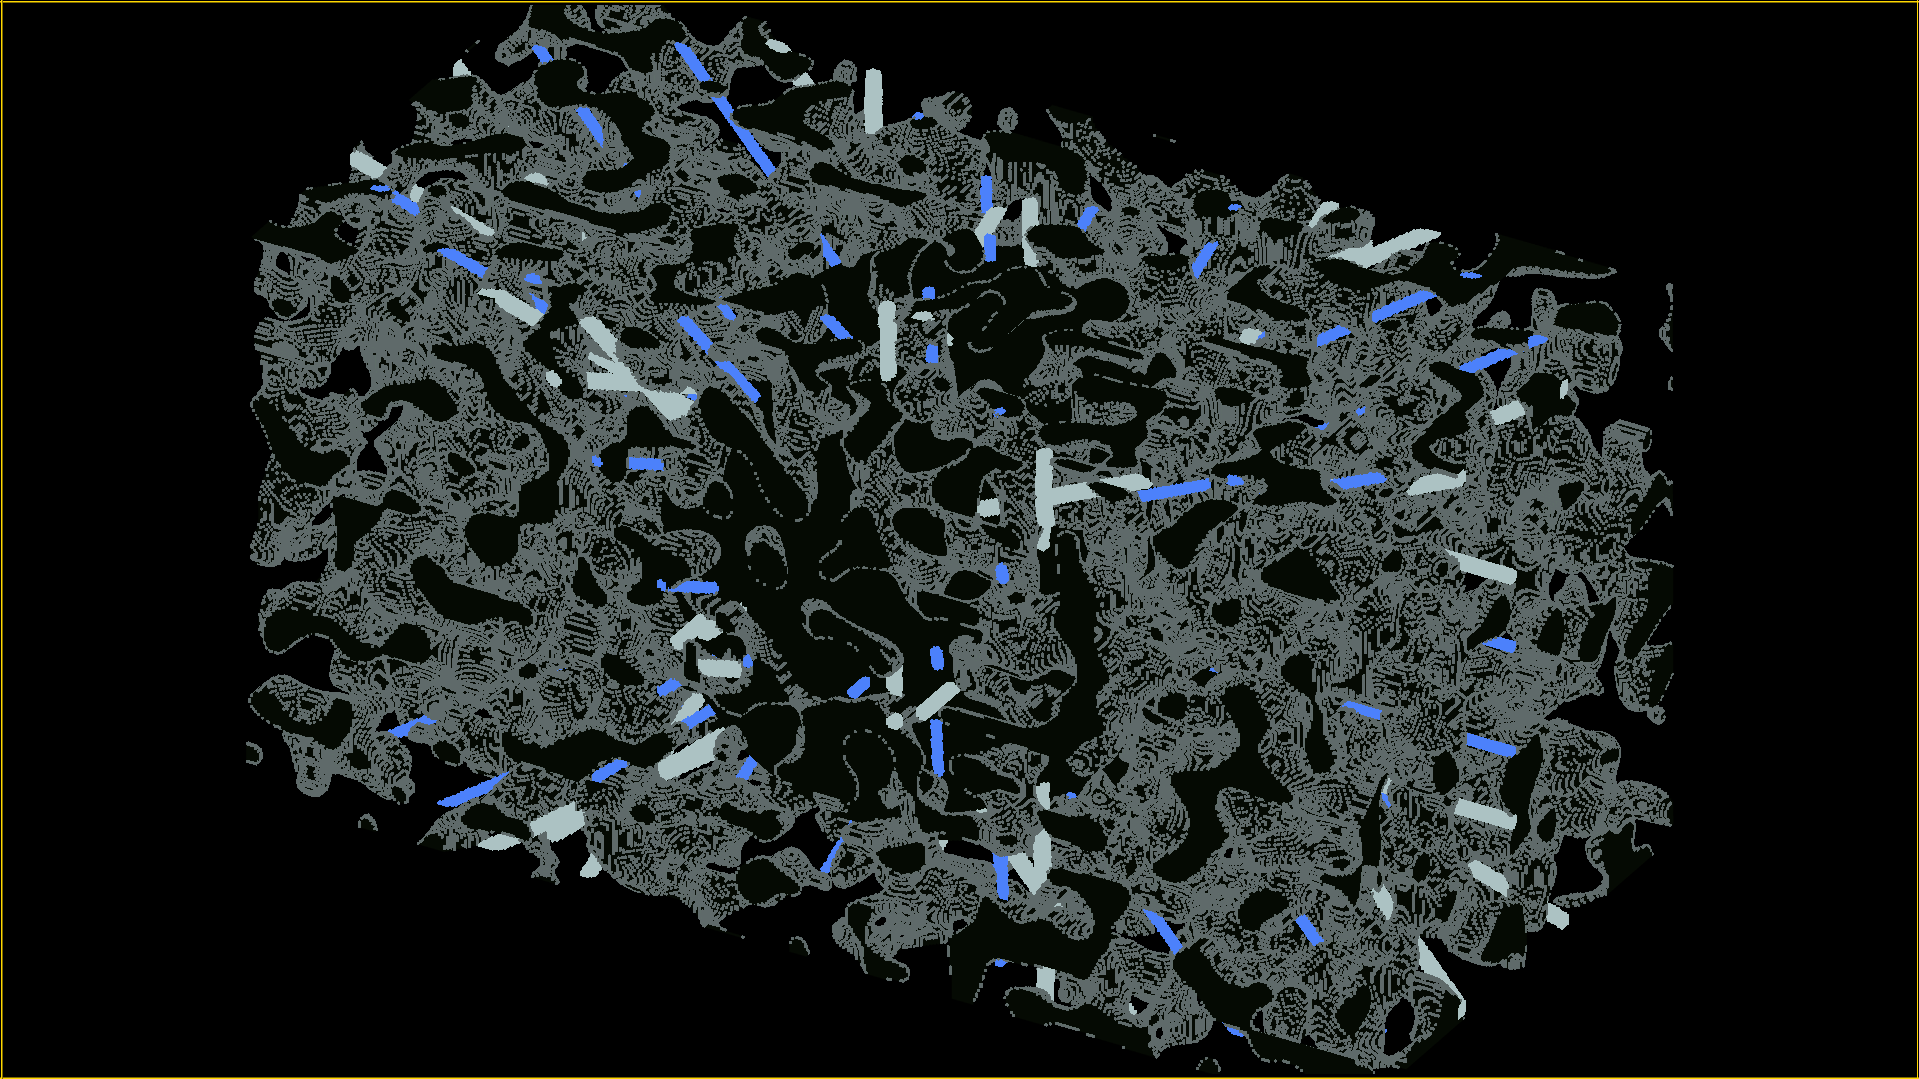
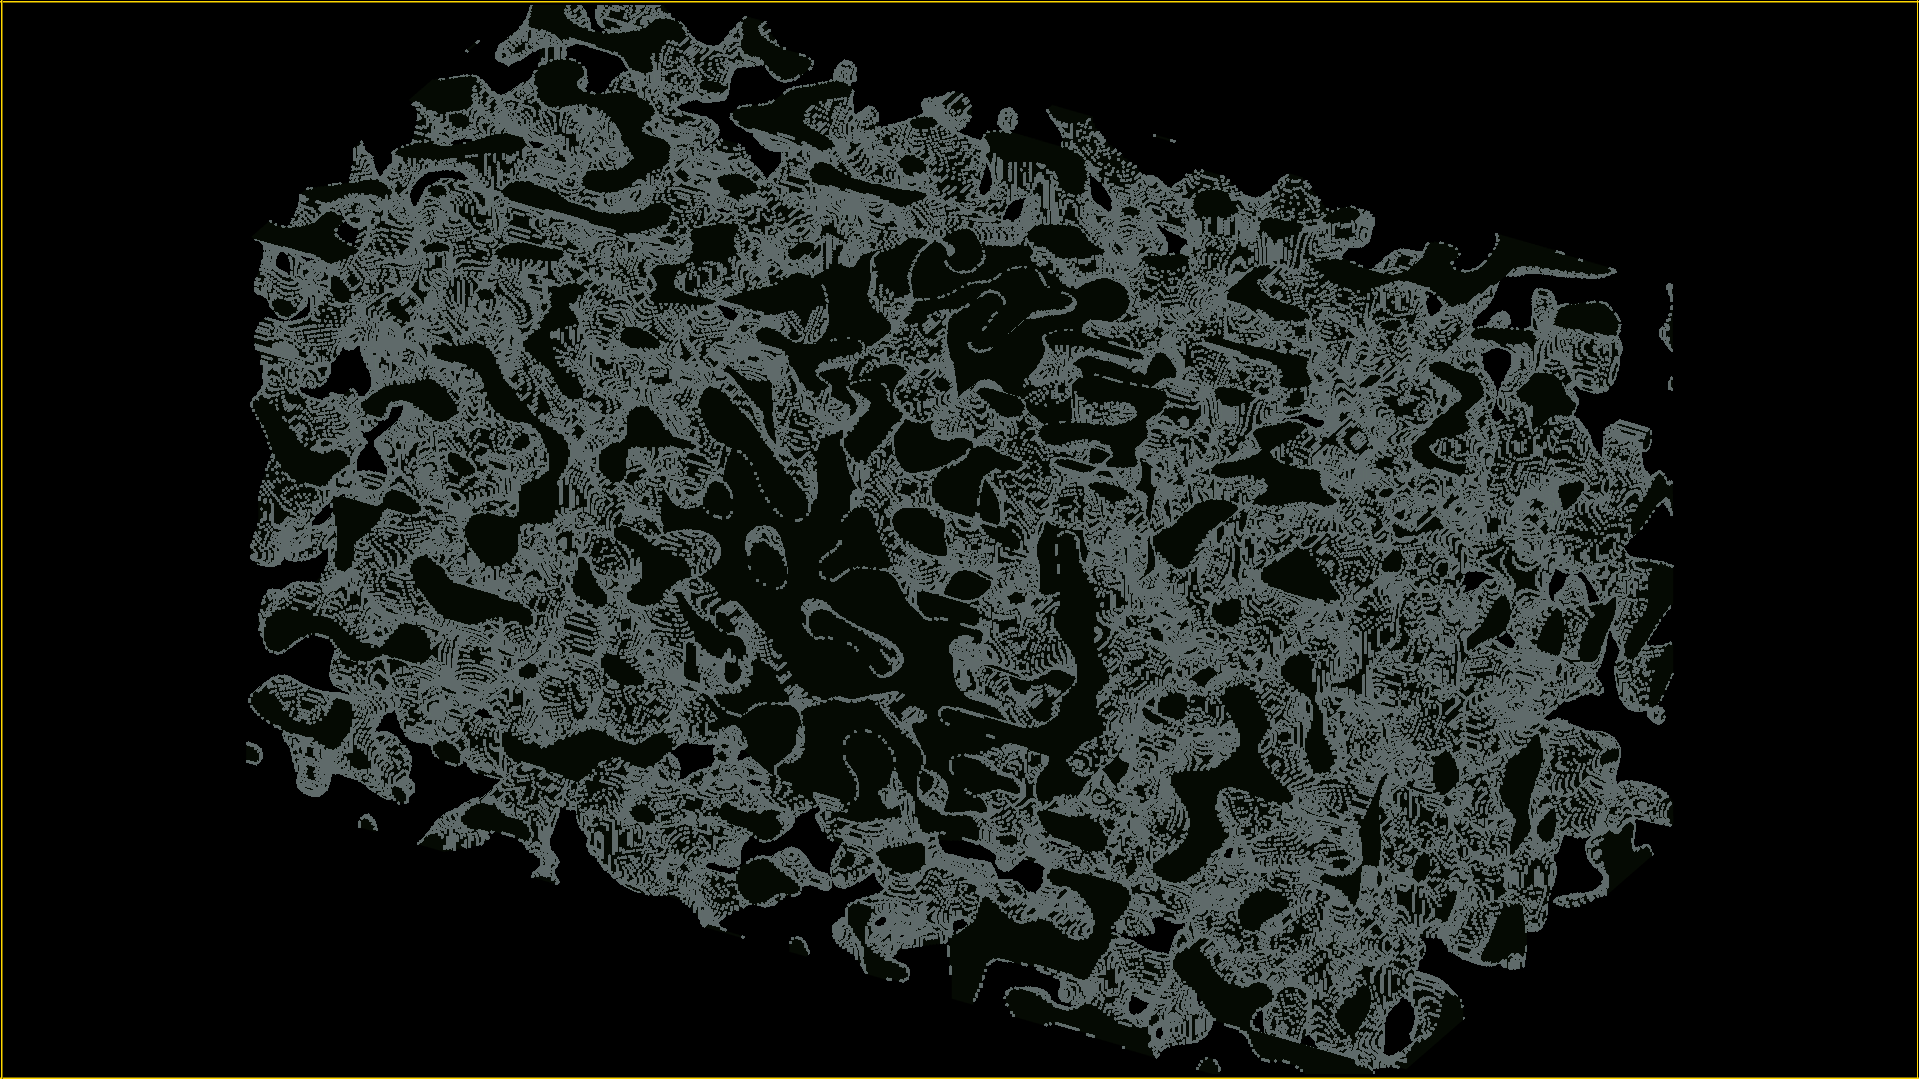
minor changes

diff --git a/resources/voraldo/v7.cc b/resources/voraldo/v7.cc
@@ -965,21 +965,21 @@ void Voraldo::draw_cylinder(vec bvec, vec tvec, double radius, Vox set, bool dra
 			for(int k = 0; k < z_dim; k++)
       {//per voxel
 
-				// //planetests
-				// bplanetest = ba * (i - bx0) + bb * (j - by0) + bc * (k - bz0);
-				// tplanetest = ta * (i - tx0) + tb * (j - ty0) + tc * (k - tz0);
-				//
-				// //using the basic equation for a plane, we can do an interesting test
-				//
-				// //These variables will be greater than zero if the test point is on the side of the plane
-				// //that the normal vector is pointing towards, and less than zero if the test point is on
-				// //the side of the plane that the normal vector is not pointing towards. That is to say, in
-				// //my case - bplanetest tells me whether the point is above the bottom plane, and tplanetest
-				// //tells me whether the point is above the top plane. If it is above the bottom, and below
-				// //the top - we are within the ends of the cylinder, and can proceed. Thus, the condition
-				// //for the following if statement:
-				//
-				// if(bplanetest >= 0 && tplanetest <= 0){
+				//planetests
+				bplanetest = ba * (i - bx0) + bb * (j - by0) + bc * (k - bz0);
+				tplanetest = ta * (i - tx0) + tb * (j - ty0) + tc * (k - tz0);
+
+				//using the basic equation for a plane, we can do an interesting test
+
+				//These variables will be greater than zero if the test point is on the side of the plane
+				//that the normal vector is pointing towards, and less than zero if the test point is on
+				//the side of the plane that the normal vector is not pointing towards. That is to say, in
+				//my case - bplanetest tells me whether the point is above the bottom plane, and tplanetest
+				//tells me whether the point is above the top plane. If it is above the bottom, and below
+				//the top - we are within the ends of the cylinder, and can proceed. Thus, the condition
+				//for the following if statement:
+
+				if(bplanetest >= 0 && tplanetest <= 0){
 
 					//do the point to line distance thing
 					//algorithm from http://mathworld.wolfram.com/Point-LineDistance3-Dimensional.html
@@ -996,7 +996,7 @@ void Voraldo::draw_cylinder(vec bvec, vec tvec, double radius, Vox set, bool dra
             index = vec(i,j,k);
 						draw_point(index,set,draw,mask);
 					}
-				// }
+				}
 			}
 		}
 	}

diff --git a/code/vu.cc b/code/vu.cc
@@ -79,14 +79,6 @@ auto tock = Clock::now(); //variable to hold end of timekeeping
 #include "../resources/glm/gtc/type_ptr.hpp" //allows the sending of a matrix (weird workaround for glUniform...)
 
 
-// this namespace contains, for either platform:
-//		ortho() matrix variables
-//		vector types, vector arrays for points and colors
-//    image dimensions
-// 		definition of point size
-//		definition of rotation and rotation_direction toggles
-//
-//
 
 
 GLfloat left = -1.366f;
@@ -109,6 +101,7 @@ const int image_width = 1366/2;
 
 // verticies
 const int NumVertices = 3000000;
+
 
 
 // Array of rotation angles (in degrees) for each coordinate axis
